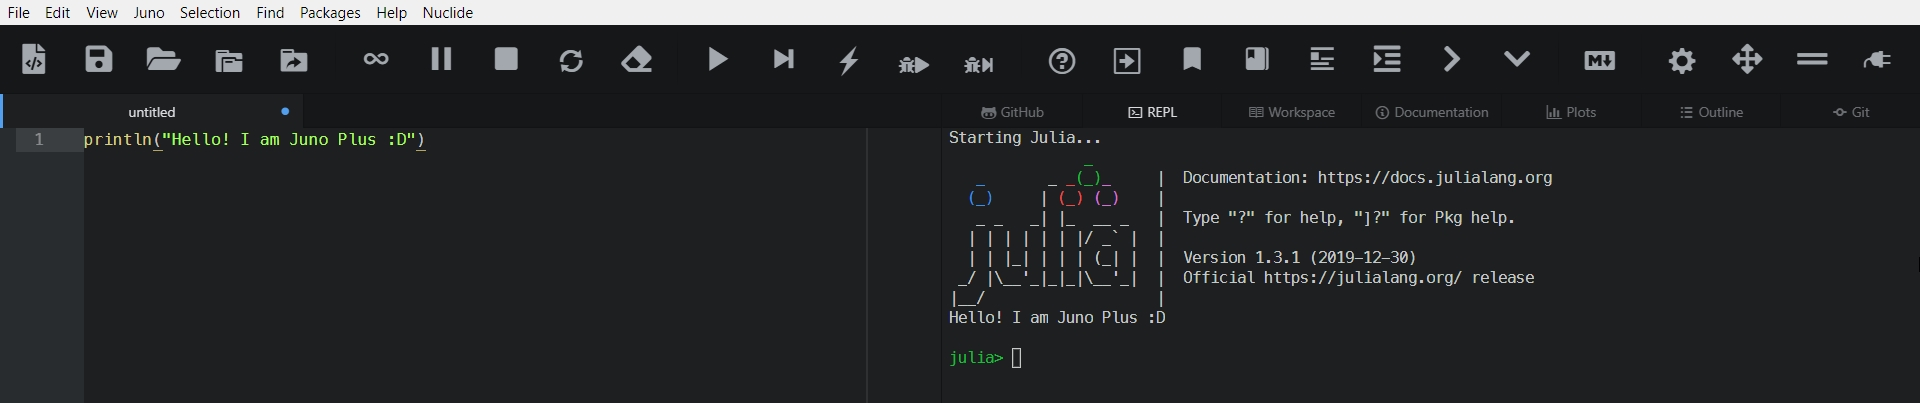
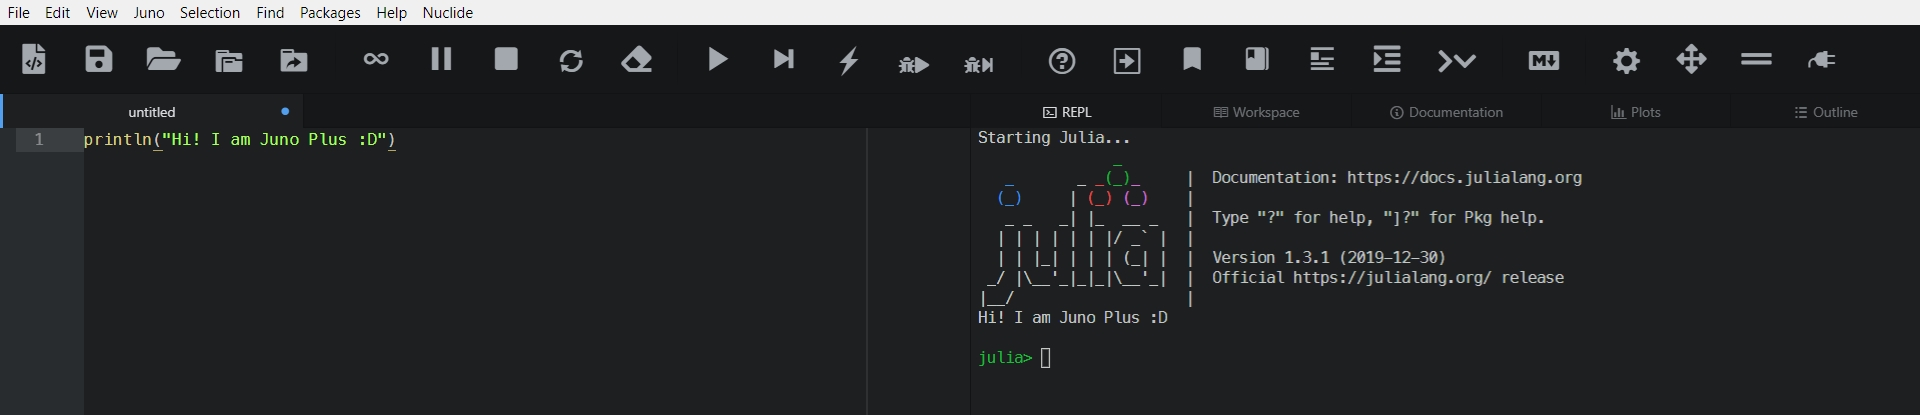
Upadting readme

diff --git a/README.md b/README.md
@@ -1,7 +1,7 @@
 # juno-plus Atom package
 This is an Atom's package that enhances Julia IDE (Juno) by adding some useful buttons and code snippets.
 
-![screenshot](https://user-images.githubusercontent.com/16418197/74638167-fe99e500-5130-11ea-93c1-0a60b8f37049.jpg)
+![screenshot](https://user-images.githubusercontent.com/16418197/74640884-ed070c00-5135-11ea-8b7c-9cacafc0c78f.jpg)
 
 ### Atom Installation
 https://atom.io/packages/juno-plus

diff --git a/CHANGELOG.md b/CHANGELOG.md
@@ -3,3 +3,4 @@
 * new button Debug: Step into File
 * Adds options for enabling "Start Julia Process" Buttons (defaults to false)
 * Adds options for enabling "Weave Buttons" (defaults to false)
+* Combining fold buttons to a toggle folding button
